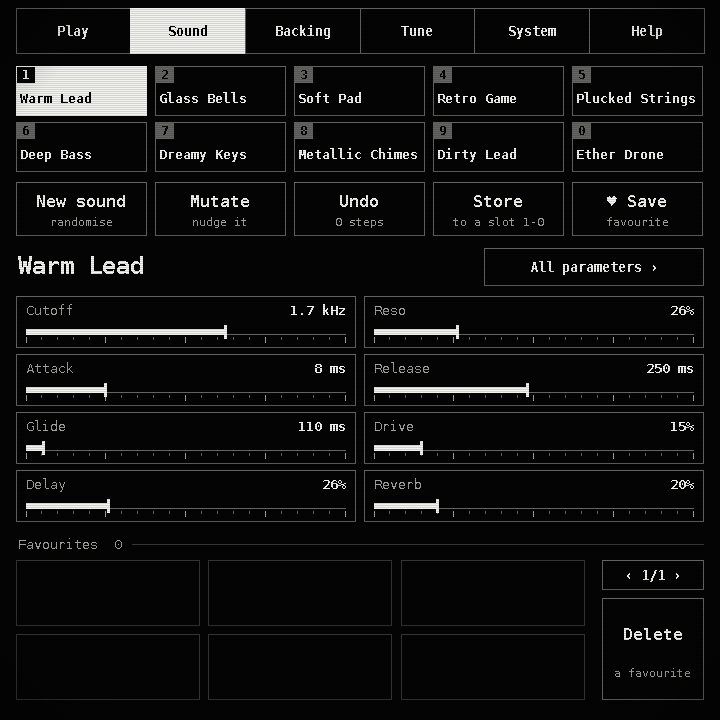
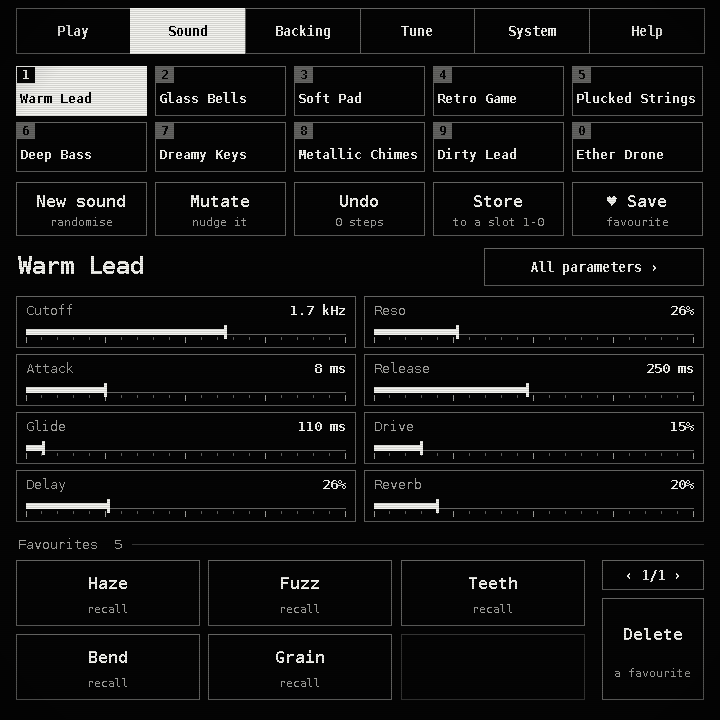
Five sine-based dream sounds (Haze, Fuzz, Teeth, Bend, Grain), offered as favourites
The engine gains extraPatch(); the app writes the five into the favourites
folder once (state.json remembers), and Factory sounds puts back any that
were deleted. Version 0.5.0.

diff --git a/tests/core_tests.cpp b/tests/core_tests.cpp
@@ -8,6 +8,7 @@
 #include "instrument.h"
 #include "presets.h"
 #include <algorithm>
+#include <string>
 #include <chrono>
 #include <cmath>
 #include <cstdio>
@@ -369,6 +370,58 @@ static void testPresetsAndRandomiser() {
     float d = 0;
     for (int i = 0; i < P_COUNT; ++i) d += std::fabs(mu.p[i] - base.p[i]) / (paramInfo(i).max - paramInfo(i).min);
     CHECK(d > 0.05f && d < 6.0f, "mutation moved parameters moderately (%.3f)", d);
+}
+
+// Share of a signal's energy that sits at one frequency (projection onto a sine/cosine pair).
+static float shareAt(const float *x, int n, double hz) {
+    double c = 0, q = 0, e = 0;
+    for (int i = 0; i < n; ++i) {
+        double ph = 2.0 * M_PI * hz * i / SR;
+        c += x[i] * std::cos(ph); q += x[i] * std::sin(ph); e += (double)x[i] * x[i];
+    }
+    return e > 0 ? (float)(2.0 * (c * c + q * q) / (n * e)) : 0;
+}
+
+static void testExtraSounds() {
+    SECTION("extra sounds: five dream sounds built around a sine");
+    // Dry (no chorus, echo, reverb, wobble or detune beating) so the wave shape itself is measured:
+    // held A3 = 220 Hz.
+    auto dryShare = [](Patch p) {
+        p.p[P_DETUNE] = 0; p.p[P_CHORUS] = 0; p.p[P_DLYMIX] = 0; p.p[P_REVMIX] = 0; p.p[P_VIBDEPTH] = 0; p.p[P_LFOAMP] = 0;
+        Rig r;
+        r.inst.setPatch(0, p);
+        r.inst.key(1, 3, true);
+        r.run(2.0);
+        int n; const float *x = r.tail(0.5, n);   // 110 whole cycles
+        return shareAt(x, n, 220.0);
+    };
+    float saw = dryShare(factoryPatch(0));
+    CHECK(saw < 0.8f, "Warm Lead (saws) keeps %.0f%% of its energy at the fundamental", saw * 100);
+    std::vector<std::string> names;
+    for (int i = 0; i < kExtraCount; ++i) {
+        Patch p = extraPatch(i);
+        names.push_back(p.name);
+        float sh = dryShare(p);
+        CHECK(sh > 0.85f, "%s: %.0f%% of the energy is the fundamental sine", p.name, sh * 100);
+        Rig r;
+        r.inst.setPatch(0, p);
+        r.inst.key(0, 0, true); r.inst.key(1, 4, true); r.inst.key(2, 4, true);
+        r.run(3.0);
+        r.inst.key(0, 0, false); r.inst.key(1, 4, false); r.inst.key(2, 4, false);
+        r.run(1.0);
+        bool finite = true;
+        for (float v : r.L) if (!(v == v) || std::fabs(v) > 4.0f) finite = false;
+        float lvl = rms(r.L.data() + (int)SR, 2 * (int)SR);
+        CHECK(finite && peak(r.L) <= 1.0f, "%s: three held notes stay finite and below full scale (peak %.2f)", p.name, peak(r.L));
+        CHECK(lvl > 0.02f && lvl < 0.4f, "%s: playing level is sensible (rms %.3f)", p.name, lvl);
+        CHECK(rms(r.L.data() + (int)(3.6 * SR), (int)(0.4 * SR)) > 0.002f, "%s: rings on after release", p.name);
+    }
+    std::sort(names.begin(), names.end());
+    CHECK(std::adjacent_find(names.begin(), names.end()) == names.end(), "the %d names are all different", kExtraCount);
+    for (int i = 0; i < kExtraCount; ++i)
+        for (int k = 0; k < kFactoryCount; ++k)
+            if (std::strcmp(extraPatch(i).name, factoryPatch(k).name) == 0) names.clear();
+    CHECK(!names.empty(), "no extra sound shares a name with a factory sound");
 }
 
 static void testLimiter() {
@@ -787,6 +840,7 @@ int main(int argc, char **argv) {
     testFrequenciesAndGlide();
     testPolyphony();
     testPresetsAndRandomiser();
+    testExtraSounds();
     testLimiter();
     testXY();
     testGlitch();

diff --git a/core/presets.cpp b/core/presets.cpp
@@ -98,6 +98,48 @@ Patch factoryPatch(int index) {
     }
 }
 
+// Sine-based "dream" sounds. Each adds a different kind of buzz to the same soft,
+// slowly wobbling, heavily washed sine.
+Patch extraPatch(int index) {
+    switch (index) {
+    case 0: // sine plus a quiet sine an octave up
+        return make("Haze", {
+            {P_WAVE1, W_SINE}, {P_WAVE2, W_SINE}, {P_MIX2, 0.2f}, {P_SEMI2, 12}, {P_DETUNE, 7},
+            {P_ATK, 0.25f}, {P_DEC, 2.0f}, {P_SUS, 0.9f}, {P_REL, 2.5f},
+            {P_FMODE, F_LP}, {P_CUTOFF, 2500}, {P_RESO, 0.05f}, {P_FENV, 0},
+            {P_VIBRATE, 0.6f}, {P_VIBDEPTH, 14}, {P_VIBDELAY, 0}, {P_GLIDE, 300},
+            {P_CHORUS, 0.8f}, {P_DLYMIX, 0.25f}, {P_DLYDIV, 3}, {P_DLYFB, 0.45f}, {P_REVMIX, 0.6f}, {P_REVSIZE, 0.92f}});
+    case 1: // sine into soft saturation, with a sub
+        return make("Fuzz", {
+            {P_WAVE1, W_SINE}, {P_MIX2, 0}, {P_SUB, 0.2f}, {P_DRIVE, 0.3f},
+            {P_ATK, 0.2f}, {P_DEC, 2.0f}, {P_SUS, 0.9f}, {P_REL, 2.2f},
+            {P_FMODE, F_LP}, {P_CUTOFF, 1800}, {P_RESO, 0.05f}, {P_FENV, 0},
+            {P_VIBRATE, 0.6f}, {P_VIBDEPTH, 12}, {P_VIBDELAY, 0}, {P_GLIDE, 300},
+            {P_CHORUS, 0.7f}, {P_DLYMIX, 0.22f}, {P_DLYDIV, 3}, {P_DLYFB, 0.45f}, {P_REVMIX, 0.55f}, {P_REVSIZE, 0.92f}});
+    case 2: // sine with a quiet saw two octaves up riding on it
+        return make("Teeth", {
+            {P_WAVE1, W_SINE}, {P_WAVE2, W_SAW}, {P_MIX2, 0.14f}, {P_SEMI2, 24}, {P_DETUNE, 5},
+            {P_ATK, 0.2f}, {P_DEC, 2.0f}, {P_SUS, 0.9f}, {P_REL, 2.2f},
+            {P_FMODE, F_LP}, {P_CUTOFF, 5000}, {P_RESO, 0.05f}, {P_FENV, 0}, {P_KTRK, 0.5f},
+            {P_VIBRATE, 0.6f}, {P_VIBDEPTH, 12}, {P_VIBDELAY, 0}, {P_GLIDE, 300},
+            {P_CHORUS, 0.6f}, {P_DLYMIX, 0.22f}, {P_DLYDIV, 3}, {P_DLYFB, 0.45f}, {P_REVMIX, 0.55f}, {P_REVSIZE, 0.92f}});
+    case 3: // sine gently bent by FM from a sine an octave up; the detune makes the shape drift
+        return make("Bend", {
+            {P_WAVE1, W_SINE}, {P_WAVE2, W_SINE}, {P_MIX2, 0}, {P_SEMI2, 12}, {P_DETUNE, 6}, {P_FM, 0.4f},
+            {P_ATK, 0.2f}, {P_DEC, 2.0f}, {P_SUS, 0.9f}, {P_REL, 2.2f},
+            {P_FMODE, F_LP}, {P_CUTOFF, 2500}, {P_RESO, 0.05f}, {P_FENV, 0},
+            {P_VIBRATE, 0.6f}, {P_VIBDEPTH, 10}, {P_VIBDELAY, 0}, {P_GLIDE, 300},
+            {P_CHORUS, 0.6f}, {P_DLYMIX, 0.22f}, {P_DLYDIV, 3}, {P_DLYFB, 0.45f}, {P_REVMIX, 0.55f}, {P_REVSIZE, 0.92f}});
+    default: // triangle and sine with a little hiss and a slow tremolo
+        return make("Grain", {
+            {P_WAVE1, W_TRI}, {P_WAVE2, W_SINE}, {P_MIX2, 0.5f}, {P_SEMI2, 0}, {P_DETUNE, 9}, {P_NOISE, 0.06f},
+            {P_ATK, 0.3f}, {P_DEC, 2.0f}, {P_SUS, 0.9f}, {P_REL, 2.5f},
+            {P_FMODE, F_LP}, {P_CUTOFF, 1500}, {P_RESO, 0.1f}, {P_FENV, 0},
+            {P_LFORATE, 3.5f}, {P_LFOAMP, 0.3f}, {P_VIBRATE, 0.6f}, {P_VIBDEPTH, 10}, {P_VIBDELAY, 0}, {P_GLIDE, 300},
+            {P_CHORUS, 0.7f}, {P_DLYMIX, 0.25f}, {P_DLYDIV, 3}, {P_DLYFB, 0.45f}, {P_REVMIX, 0.6f}, {P_REVSIZE, 0.92f}});
+    }
+}
+
 // --------------------------------------------------------------- loudness
 
 float normalisePatch(Patch &p, float sr) {

diff --git a/app/mainwindow.cpp b/app/mainwindow.cpp
@@ -97,9 +97,11 @@ MainWindow::MainWindow(Instrument &i, AudioOut &a) : inst(i), audio(a) {
         curSlot = qBound(-1, st["slot"].toInt(0), 9);
         lead = st.contains("lead") ? store::patchFromJson(st["lead"].toObject()) : bank[qMax(0, curSlot)];
         chordRow = st["chordRow"].toBool(false);
+        extrasSeeded = st["extras"].toInt(0);
     }
     sd.lead = lead; sd.backing = lead;
     inst.restore(sd);
+    if (extrasSeeded < kExtraCount) addExtraSounds(extrasSeeded); // once: deleting one keeps it gone
     refreshLists();
 
     connect(&frameTimer, &QTimer::timeout, this, [this] {
@@ -162,7 +164,31 @@ void MainWindow::saveState() {
     o["slot"] = curSlot;
     o["lead"] = store::patchToJson(lead);
     o["chordRow"] = chordRow;
+    o["extras"] = extrasSeeded;
     store::writeJson(store::baseDir() + "/state.json", o);
+}
+
+// The engine's extra sounds (the sine-based dream sounds) live in the favourites folder, so they
+// can be recalled, stored to a slot or deleted like any saved sound. A sound whose name is already
+// there is left alone. Returns how many files were written.
+int MainWindow::addExtraSounds(int from) {
+    const QVector<store::NamedPatch> have = store::listPatches("favourites");
+    const QDateTime now = QDateTime::currentDateTime();
+    int wrote = 0;
+    for (int i = qMax(0, from); i < kExtraCount; ++i) {
+        Patch p = extraPatch(i);
+        bool there = false;
+        for (const store::NamedPatch &f : have) there = there || QString::fromUtf8(f.patch.name) == QString::fromUtf8(p.name);
+        if (there) continue;
+        QString path = store::savePatch("favourites", p);
+        if (path.isEmpty()) continue;
+        // The list shows the newest file first: date them so they appear in their own order.
+        QFile f(path);
+        if (f.open(QIODevice::ReadWrite)) f.setFileTime(now.addSecs(-1 - i), QFileDevice::FileModificationTime);
+        ++wrote;
+    }
+    extrasSeeded = kExtraCount;
+    return wrote;
 }
 
 void MainWindow::refreshLists() {
@@ -1199,7 +1225,9 @@ void MainWindow::paintSystem() {
             [this] { set(S_LATENCY, u.set.latencyMs - 10); }, [this] { set(S_LATENCY, u.set.latencyMs + 10); });
     button(c4(2, 642, 60), "factory", "Factory sounds", false, [this] {
         for (int k = 0; k < 10; ++k) bank[k] = factoryPatch(k);
-        toast("Sound slots 1-0 restored");
+        int back = addExtraSounds();
+        refreshLists();
+        toast(back ? QString("Slots 1-0 restored, %1 favourite%2 put back").arg(back).arg(back == 1 ? "" : "s") : QString("Sound slots 1-0 restored"));
     }, "restore slots 1-0");
     button(c4(3, 642, 60), "quit", "Quit", false, [this] { close(); }, "saves your setup");
 }

diff --git a/app/selftest.cpp b/app/selftest.cpp
@@ -121,14 +121,23 @@ int runSelfTest(MainWindow &w, Instrument &inst, AudioOut &audio, const QString 
     key(w, Qt::Key_Control, true); key(w, Qt::Key_R, true); key(w, Qt::Key_R, false); wait(80);
     QString rnd = inst.uiState().leadName;
     check(rnd != before && !rnd.isEmpty(), QString("Ctrl+R generates a new sound (%1)").arg(rnd));
+    QDir favDir(store::baseDir() + "/favourites");
+    int favBefore = favDir.entryList({"*.json"}).size();
+    check(favBefore == kExtraCount && favDir.exists("haze.json") && favDir.exists("grain.json"),
+          QString("first start puts the %1 dream sounds in favourites").arg(kExtraCount));
     key(w, Qt::Key_F, true); key(w, Qt::Key_F, false); wait(60);
-    check(!QDir(store::baseDir() + "/favourites").entryList({"*.json"}).isEmpty(), "Ctrl+F saves it as a favourite file");
+    check(favDir.entryList({"*.json"}).size() == favBefore + 1, "Ctrl+F saves it as a favourite file");
     key(w, Qt::Key_Z, true); key(w, Qt::Key_Z, false); wait(80);
     check(QString(inst.uiState().leadName) == before, "Ctrl+Z undoes back to the previous sound");
     key(w, Qt::Key_Control, false);
     w.setPage(MainWindow::PG_SOUND); wait(100);
     tap(w, "favitem0"); wait(80);
     check(QString(inst.uiState().leadName) == rnd, "favourite recalled from the sound page");
+    tap(w, "favitem1"); wait(80);
+    check(QString(inst.uiState().leadName) == "Haze", "the dream sounds follow in order: Haze is next");
+    tap(w, "favitem5"); wait(80);
+    check(QString(inst.uiState().leadName) == "Grain", "and Grain is last on the first page");
+    check(w.addExtraSounds() == 0 && favDir.entryList({"*.json"}).size() == favBefore + 1, "they are not added twice");
     w.setPage(MainWindow::PG_PLAY); wait(100);
     key(w, Qt::Key_1, true); key(w, Qt::Key_1, false); wait(60);
 

diff --git a/app/mainwindow.h b/app/mainwindow.h
@@ -47,6 +47,7 @@ public:
     bool saveSession(const QString &path);
     bool loadSession(const QString &path);
     void saveState();
+    int addExtraSounds(int from = 0); // engine's extra sounds -> favourites; returns files written
     QString startRecording();
     QString stopRecording();
     void perform(int act, bool shift = false);
@@ -82,6 +83,7 @@ private:
     std::vector<td::Patch> undo;
     QVector<store::NamedPatch> favs;
     int favPage = 0;
+    int extrasSeeded = 0;   // how many of the engine's extra sounds have been offered as favourites
     bool favDelete = false, slotSave = false;
     td::Rng rng;
 

diff --git a/app/main.cpp b/app/main.cpp
@@ -27,7 +27,7 @@ int main(int argc, char **argv) {
         else if (a == "--shots" && i + 1 < argc) shots = argv[++i];
         else if (a == "--render" && i + 1 < argc) render = argv[++i];
         else if (a == "--audio" && i + 1 < argc) prefer = argv[++i];
-        else if (a == "--version") { std::printf("vrequency 0.4.0\n"); return 0; }
+        else if (a == "--version") { std::printf("vrequency 0.5.0\n"); return 0; }
         else if (a == "--help" || a == "-h") {
             std::printf("venv vrequency - pocket string synthesiser\n\n"
                         "  vrequency               start full screen\n"

diff --git a/core/presets.h b/core/presets.h
@@ -8,6 +8,11 @@ namespace td {
 constexpr int kFactoryCount = 10;
 Patch factoryPatch(int index);
 
+// Extra sounds outside the ten number-key slots; the app offers them as favourites.
+// All five are built around a sine wave: soft, slow, washed in chorus and reverb.
+constexpr int kExtraCount = 5;
+Patch extraPatch(int index);
+
 // Generate a brand-new playable sound. Every result is loudness-normalised.
 Patch randomPatch(Rng &rng);
 // Nudge an existing sound; amount 0..1.

diff --git a/docs/STATUS.md b/docs/STATUS.md
@@ -1,12 +1,12 @@
 # Status — what works, what is unproven, what is missing
 
-Version 0.4.0, 2026-11-13 (0.3.0 plus a Glitch touch-pad mapping: a bit crusher on the whole output, with colour streaks in the scope while it is on). "Tested" below means an automated test measured it; it does **not** mean a
+Version 0.5.0, 2026-11-13 (0.4.0 plus five sine-based "dream" sounds, offered as favourites; 0.4.0 added the Glitch touch-pad mapping). "Tested" below means an automated test measured it; it does **not** mean a
 person heard it or pressed a physical key. Those checks are listed separately.
 
 ## Working and covered by automated tests
 
-`vrequency_tests` renders audio offline and measures it (337 checks). `vrequency --selftest` drives the real
-application with real key and touch events while the real audio thread runs (50 checks).
+`vrequency_tests` renders audio offline and measures it (360 checks). `vrequency --selftest` drives the real
+application with real key and touch events while the real audio thread runs (54 checks).
 
 | Area | What the tests establish |
 |---|---|
@@ -16,6 +16,7 @@ application with real key and touch events while the real audio thread runs (50 
 | Chord glides | Three strings sound together; re-fingering a held shape glides all three voices to the new chord |
 | Scale lock | For every scale and every root, every key is in the scale and pitch rises left to right; chromatic override gives semitones; octave shift sweeps held notes without retriggering |
 | Sounds | The 10 factory sounds differ measurably; switching sound under a held note makes no click |
+| Dream sounds | Haze, Fuzz, Teeth, Bend and Grain each keep more than 85 % of their energy in the fundamental sine when measured dry (Warm Lead: under 80 %); three held notes stay inside full scale; each rings on after release; they appear as five favourites on first start, in order, and are not added twice |
 | Randomiser | 120 generated sounds: all audible, all different, none over the level ceiling; mutate stays close; undo and favourites work through the app |
 | Backing | Diatonic triads and sevenths named and built correctly; a tapped I–IV–V–IV progression loops in tempo under a live melody; remove / replace / stop / start / clear; hold and drone modes; arpeggio; backing keeps its sound when the lead changes |
 | Looper | Count-in, bar snap, playback, overdub, undo, stop/start, clear; a recorded slide replays as a slide; an 18-second loop; a layer keeps the sound it was recorded with |
@@ -107,6 +108,7 @@ Start with `vrequency`. If there is no sound, check that GNOME's sound output is
 | 8 | `Enter`, wait for the count, play a bar, `Enter` again | Your phrase loops in time | If it is early or late, change System → Loop fix and tell me the value that works |
 | 9 | Drag a finger across the scope | Sound changes with the finger; a square cursor follows it | |
 | 9c | Tap the Filter button on the scope until it says Glitch, hold a note, drag on the scope | Sound turns rough and digital while touched, coloured streaks trail from the wave, both stop when you lift | Tell me if it is too harsh, too quiet, or the colours are wrong |
+| 9d | Sound page, tap Haze (then Fuzz, Teeth, Bend, Grain) in Favourites, hold notes and slide | Soft, slow, washed sound; the scope draws a round wave | Tell me which are too quiet, too washed out or not buzzy enough. Nobody has heard these on the device yet |
 | 9b | Hold a low note, then a high one | The trace stays still and the ms/div readout steps by itself; pitch is unaffected | |
 | 10 | `Ctrl` + `R` a few times, `Ctrl` + `Z` | New sounds each time; undo brings the last one back | |
 | 11 | Menu → System → Key test, then try `Z`+`S`+`W`, `Space`+`Z`+`X`, `Alt`+`A`+`J` | Only the keys you hold are listed | A key you did not press appears: the keyboard ghosts on that combination |

diff --git a/docs/GUIDE.md b/docs/GUIDE.md
@@ -1,6 +1,6 @@
 # How to use venv vrequency
 
-A guide to playing the synth, page by page. Everything here describes version 0.4.0 with the
+A guide to playing the synth, page by page. Everything here describes version 0.5.0 with the
 default key bindings.
 
 The short version is also built into the app: press `Ctrl`+`H`, or tap Menu and then the Help tab.
@@ -165,7 +165,30 @@ the sound has, twelve to a page, with Prev and Next at the bottom.
   to a page. Tap one to recall it. To remove one, tap **Delete** and then the favourite.
 
 Factory sounds can be put back at any time: System page, **Factory sounds**. That overwrites slots
-1 to 0 and leaves favourites alone.
+1 to 0. It leaves your own favourites alone and puts back any of the five dream sounds you deleted.
+
+### Dream sounds
+
+Five favourites are there from the first start: **Haze**, **Fuzz**, **Teeth**, **Bend** and
+**Grain**. They are for slow, soft, washed-out playing. Each is built around a sine wave, so the
+scope draws a round wave instead of the jagged one Warm Lead makes, and each adds its own kind of buzz.
+
+![The wave each dream sound draws, next to Warm Lead](shots/8-dream-waves.png)
+
+| Sound | What it is |
+|---|---|
+| Haze | A sine with a quiet sine an octave above it. The plainest of the five. |
+| Fuzz | A sine pushed into soft distortion, with a low note underneath. |
+| Teeth | A sine with a quiet, bright sawtooth riding on it, which shows as small teeth on the wave. |
+| Bend | A sine whose shape is bent by a second sine. The dents drift slowly as you hold a note. |
+| Grain | A triangle and a sine that beat against each other, with a little hiss and a slow tremolo. |
+
+All five fade in gently, ring on for a couple of seconds after you let go, wobble slowly in pitch
+and sit in a lot of chorus, echo and reverb. They suit held notes, slides and chords on three
+strings more than fast playing. If the wash is too much, pull **Reverb** and **Delay** down.
+
+To put one on a number key: tap it, tap **Store**, then tap a slot. If you delete one, it stays
+deleted until you use **Factory sounds** on the System page.
 
 ## 7. Backing chords
 
@@ -267,7 +290,7 @@ To load a session, tap it in the list on the System page, then start the loop or
 - **Panic**: all notes off (same as `Backspace`).
 - **Loop fix**: shifts recorded loops earlier or later in milliseconds. Change it if your loops
   play back out of time with what you played.
-- **Factory sounds**: restores slots 1 to 0.
+- **Factory sounds**: restores slots 1 to 0 and puts back any deleted dream sounds.
 - **Quit**.
 
 ## 12. All the keys

diff --git a/README.md b/README.md
@@ -57,7 +57,8 @@ The full how-to is [docs/GUIDE.md](docs/GUIDE.md). A short version is built in: 
   with its own envelope, vibrato, LFO to cutoff/amplitude/pulse-width, saturation. Master chorus,
   tempo-synced delay, reverb, a bit crusher (the Glitch pad mapping), limiter + soft clip (output can
   never exceed full scale).
-- **Sounds**: ten factory sounds in slots 1‥0, a randomiser that invents playable instruments
+- **Sounds**: ten factory sounds in slots 1‥0, five sine-based dream sounds (Haze, Fuzz, Teeth,
+  Bend, Grain) offered as favourites, a randomiser that invents playable instruments
   (every result is loudness-normalised), mutate, undo, favourites, an all-parameters editor.
 - **Backing**: diatonic triads/sevenths from the scale. Tap up to eight chords for a looping
   progression, or latch one chord, or latch drone notes. Sustain / pulse / arpeggio styles.
@@ -83,9 +84,9 @@ machine. Nothing is installed system-wide and nothing starts at boot.
 Tests:
 
 ```bash
-./build/vrequency_tests                                   # 337 engine checks (offline rendering)
+./build/vrequency_tests                                   # 360 engine checks (offline rendering)
 ./build/vrequency_tests --bench                           # CPU at full polyphony
-QT_QPA_PLATFORM=offscreen ./build/vrequency --selftest    # 50 checks through the real app + audio thread
+QT_QPA_PLATFORM=offscreen ./build/vrequency --selftest    # 54 checks through the real app + audio thread
 QT_QPA_PLATFORM=offscreen ./build/vrequency --audio null --render docs/shots   # redraw the pictures
 ```
 
